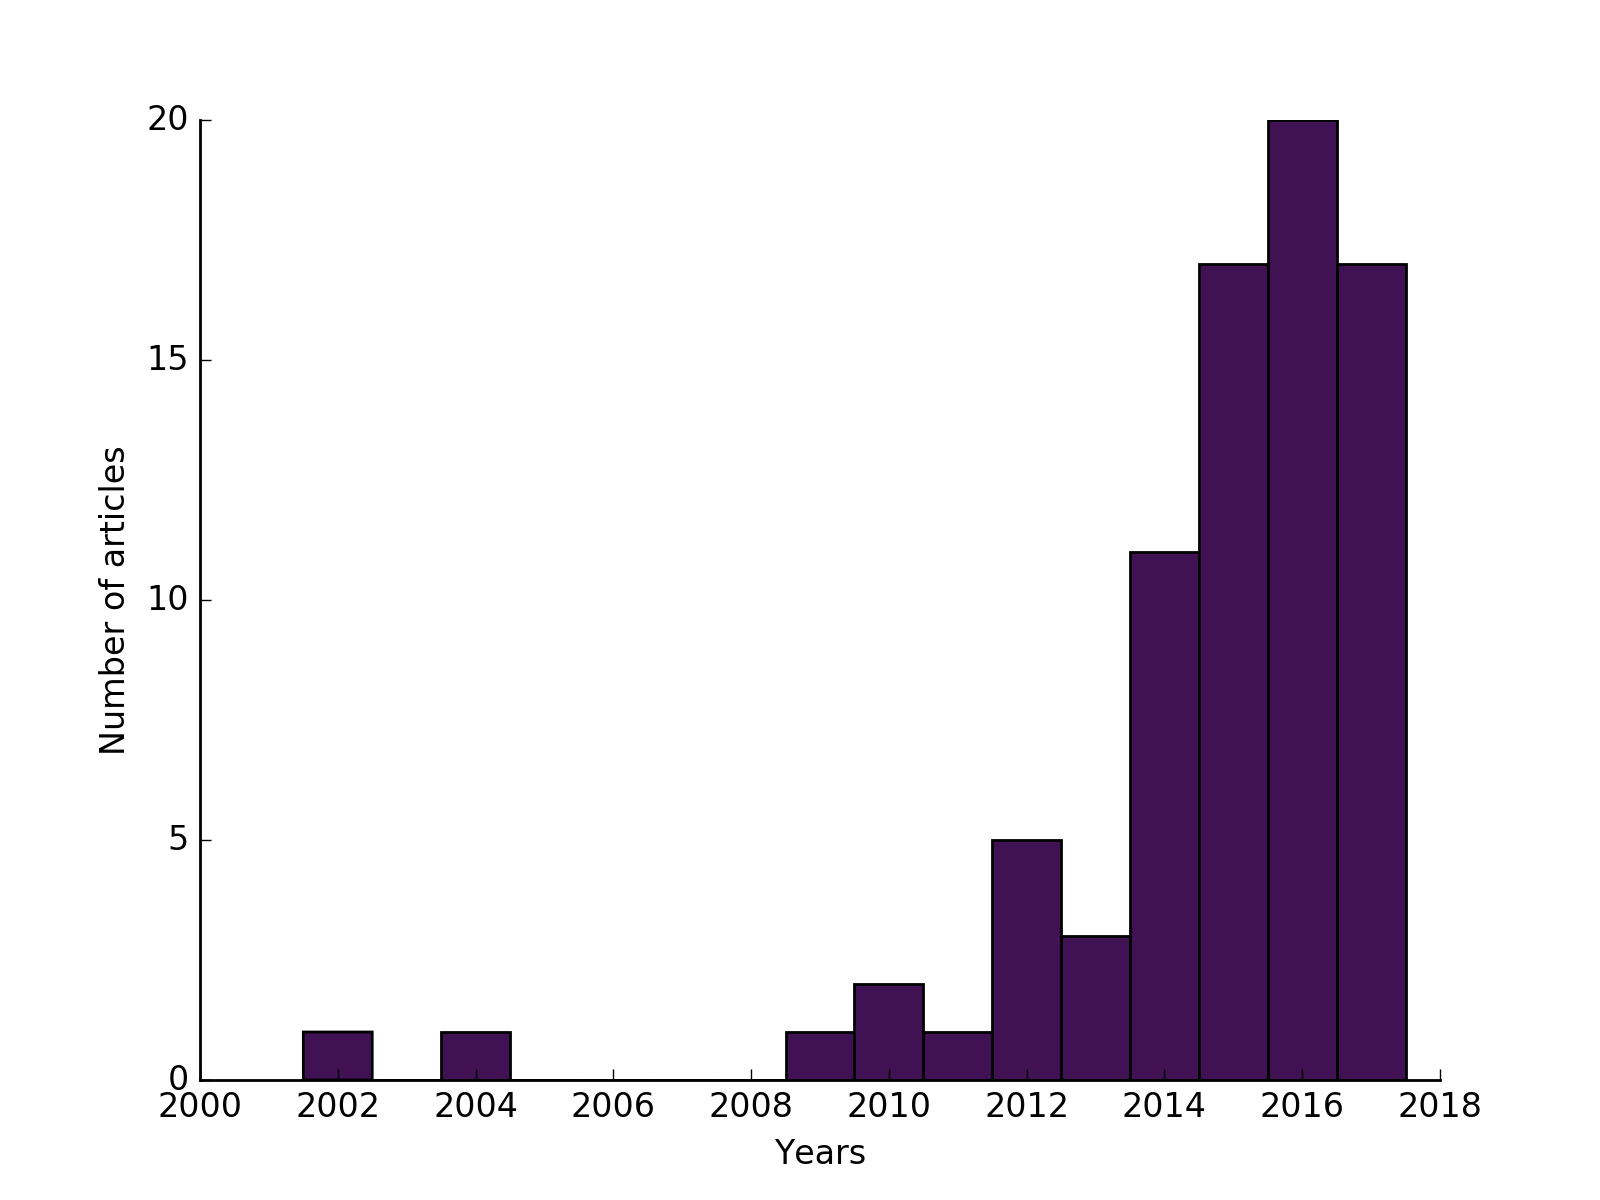
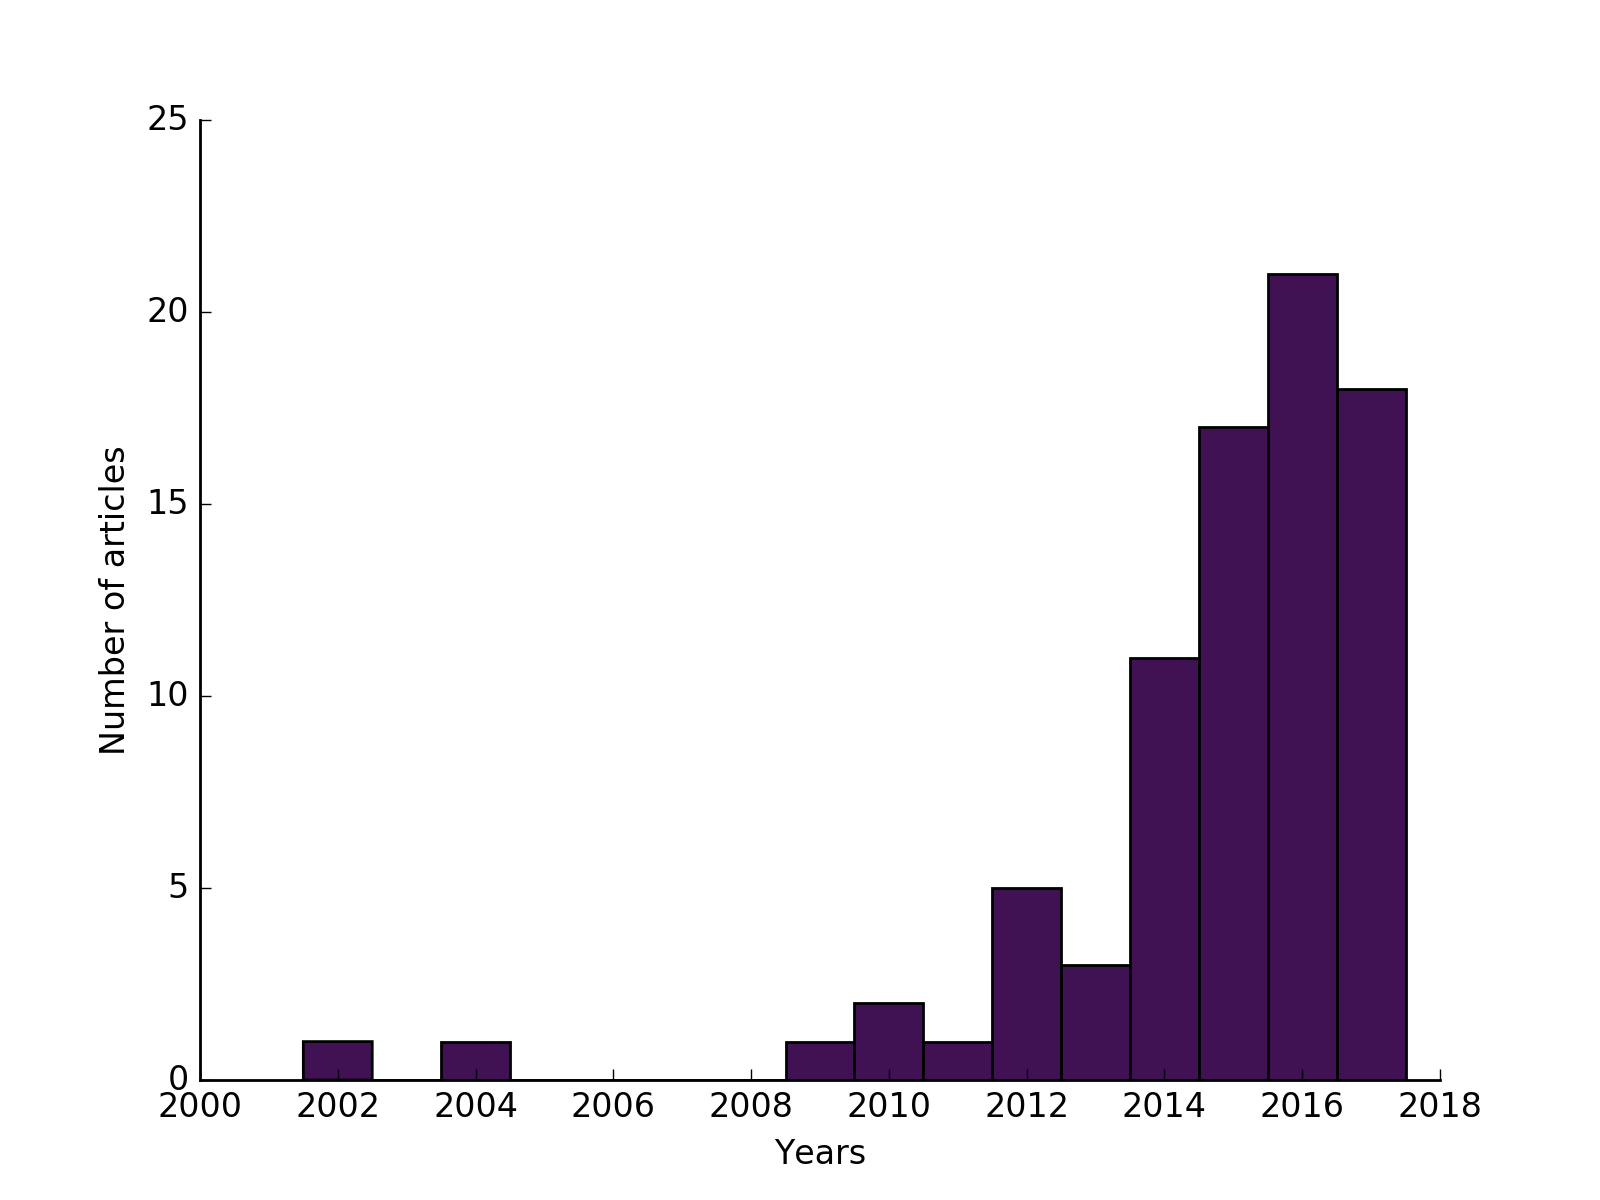
Added Velarde Thesis and Huang article

diff --git a/README.md b/README.md
@@ -2,6 +2,7 @@
 
 The role of this curated list is to gather scientific articles that use deep learning approaches applied to music.
 The list is currently under construction but feel free to contribute to the missing fields and to add other resources.
+The resources provided here come from my review of the state-of-the-art for my PhD Thesis for which an article is being written.
 
 ## Table of contents
 
@@ -34,15 +35,17 @@ The list is currently under construction but feel free to contribute to the miss
 | [Timbre analysis of music audio signals with convolutional neural networks](https://arxiv.org/pdf/1703.06697.pdf) | [GitHub](https://arxiv.org/pdf/1703.06697.pdf) |
 | [Designing efficient architectures for modeling temporal features with convolutional neural networks](http://ieeexplore.ieee.org/document/7952601/) | [GitHub](http://ieeexplore.ieee.org/document/7952601/) |
 | [Music feature maps with convolutional neural networks for music genre classification](https://www.micc.unifi.it/cbmi2017/session/poster-and-demo-session/) | No |
+| [Convolutional methods for music analysis](http://vbn.aau.dk/files/260308151/PHD_Gissel_Velarde_E_pdf.pdf) | |
 | [Extending temporal feature integration for semantic audio analysis](http://www.aes.org/e-lib/browse.cfm?elib=18682) | No |
 | [Audio spectrogram representations for processing with convolutional neural networks](https://arxiv.org/pdf/1706.09559.pdf) | No |
-| [A study on lstm networks for polyphonic music sequence modelling](https://qmro.qmul.ac.uk/xmlui/handle/123456789/24946) | [Website](https://qmro.qmul.ac.uk/xmlui/handle/123456789/24946) |
+| [A study on LSTM networks for polyphonic music sequence modelling](https://qmro.qmul.ac.uk/xmlui/handle/123456789/24946) | [Website](https://qmro.qmul.ac.uk/xmlui/handle/123456789/24946) |
 | [An efficient approach for segmentation, feature extraction and classification of audio signals ](http://file.scirp.org/pdf/CS_2016042615054817.pdf) | No |
 | [Towards playlist generation algorithms using rnns trained on within-track transitions](https://arxiv.org/pdf/1606.02096.pdf) | No |
 | [Automatic tagging using deep convolutional neural networks](https://arxiv.org/pdf/1606.00298.pdf) | No |
 | [Automatic chord estimation on seventhsbass chord vocabulary using deep neural network](http://ieeexplore.ieee.org/abstract/document/7471677/) | |
 | [Robust downbeat tracking using an ensemble of convolutional networks](http://ieeexplore.ieee.org/abstract/document/7728057/) | |
 | [Bayesian meter tracking on learned signal representations](http://www.rhythmos.org/MMILab-Andre_files/ISMIR2016_CNNDBNbeats_camready.pdf) | |
+| [Deep learning for music](https://arxiv.org/pdf/1606.04930.pdf) | |
 | [Learning temporal features using a deep neural network and its application to music genre classification](https://www.researchgate.net/profile/Il_Young_Jeong/publication/305683876_Learning_temporal_features_using_a_deep_neural_network_and_its_application_to_music_genre_classification/links/5799a27c08aec89db7bb9f92.pdf) | |
 | [On the potential of simple framewise approaches to piano transcription](https://arxiv.org/abs/1612.05153) | |
 | [Feature learning for chord recognition: the deep chroma extractor](https://arxiv.org/pdf/1612.05065.pdf) | |
@@ -53,7 +56,7 @@ The list is currently under construction but feel free to contribute to the miss
 | [Singing voice melody transcription using deep neural networks](https://wp.nyu.edu/ismir2016/wp-content/uploads/sites/2294/2016/07/163_Paper.pdf) | |
 | [Singing voice separation using deep neural networks and F0 estimation](http://www.music-ir.org/mirex/abstracts/2016/RSGP1.pdf) | [Website](http://www.music-ir.org/mirex/abstracts/2016/RSGP1.pdf) |
 | [Learning to pinpoint singing voice from weakly labeled examples](http://www.ofai.at/~jan.schlueter/pubs/2016_ismir.pdf) | |
-| [Note onset detection in musical signals via neuralÃ¢â‚¬â€œnetworkÃ¢â‚¬â€œbased multiÃ¢â‚¬â€œodf fusion](https://www.degruyter.com/downloadpdf/j/amcs.2016.26.issue-1/amcs-2016-0014/amcs-2016-0014.pdf) | No |
+| [Note onset detection in musical signals via neural-network-based multi-ODF fusion](https://www.degruyter.com/downloadpdf/j/amcs.2016.26.issue-1/amcs-2016-0014/amcs-2016-0014.pdf) | No |
 | [Convolutional neural network for robust pitch determination](http://www.mirlab.org/conference_papers/International_Conference/ICASSP%202016/pdfs/0000579.pdf) | |
 | [Deep convolutional neural networks and data augmentation for acoustic event detection](https://arxiv.org/pdf/1604.07160.pdf) | No |
 | [Unsupervised feature learning based on deep models for environmental audio tagging](https://arxiv.org/pdf/1607.03681.pdf) | |
@@ -74,7 +77,7 @@ The list is currently under construction but feel free to contribute to the miss
 | [Deep karaoke: extracting vocals from musical mixtures using a convolutional deep neural network](https://link.springer.com/chapter/10.1007/978-3-319-22482-4_50) | |
 | [Deep neural network based instrument extraction from music](https://www.researchgate.net/profile/Stefan_Uhlich/publication/282001406_Deep_neural_network_based_instrument_extraction_from_music/links/5600eeda08ae07629e52b397/Deep-neural-network-based-instrument-extraction-from-music.pdf) | |
 | [A deep neural network for modeling music](https://www.researchgate.net/profile/Xiaoqing_Zheng3/publication/275347034_A_Deep_Neural_Network_for_Modeling_Music/links/5539d2060cf2239f4e7dad0d/A-Deep-Neural-Network-for-Modeling-Music.pdf) | |
-| [The munich lstm-rnn approach to the mediaeval 2014 Ã¢â‚¬Å“emotion in musicÃ¢â‚¬Â task](https://pdfs.semanticscholar.org/8a24/c5131d5a28165f719697028c34b00e6d3f60.pdf) | |
+| [The munich LSTM-RNN approach to the mediaeval 2014 "emotion in music" task](https://pdfs.semanticscholar.org/8a24/c5131d5a28165f719697028c34b00e6d3f60.pdf) | |
 | [End-to-end learning for music audio](http://ieeexplore.ieee.org/abstract/document/6854950/) | No |
 | [Deep learning for music genre classification](https://courses.engr.illinois.edu/ece544na/fa2014/Tao_Feng.pdf) | No |
 | [Recognition of acoustic events using deep neural networks](https://www.cs.tut.fi/sgn/arg/music/tuomasv/dnn_eusipco2014.pdf) | |
@@ -125,7 +128,7 @@ The list is currently under construction but feel free to contribute to the miss
 
 ## Statistics and visualisations
 
-- 79 articles currently referenced.
+- 81 articles currently referenced.
 - Number of articles per year:
 ![Number of articles per year](fig/articles_per_year.png)
 
@@ -159,6 +162,7 @@ In [dl4m.tsv](dl4m.tsv), the articles are sorted by decreasing year (to keep up 
 | DNN | Deep Neural Network |
 | CNN | Convolutional Neural Network |
 | RNN | Recurrent Neural Network |
+| LSTM | Long Short Term Memory |
 | VPNN | Vector Product Neural Network |
 | VAD | Voice Activity Detection |
 | SVS | Singing Voice Separation |
@@ -197,3 +201,4 @@ In [dl4m.tsv](dl4m.tsv), the articles are sorted by decreasing year (to keep up 
 - [Awesome Music](https://github.com/ciconia/awesome-music) - Music softwares
 - [Awesome Music Production](https://github.com/adius/awesome-music-production) - Music creation
 - General [![Awesome](https://cdn.rawgit.com/sindresorhus/awesome/d7305f38d29fed78fa85652e3a63e154dd8e8829/media/badge.svg)](https://github.com/sindresorhus/awesome) lists
+- [The Asimov Institute](http://www.asimovinstitute.org/analyzing-deep-learning-tools-music/) - 6 deep learning tools for music generation
